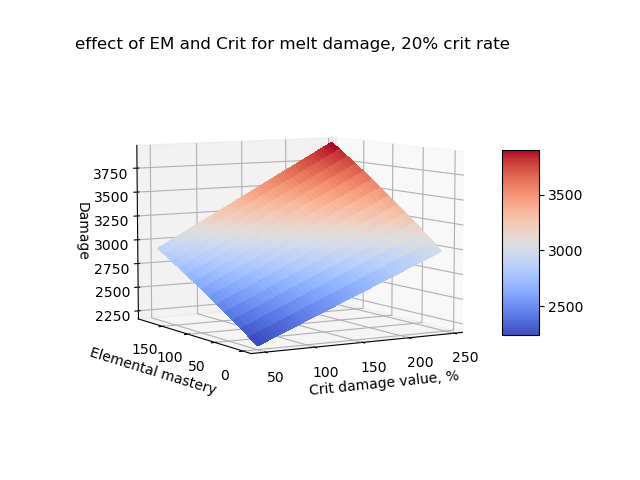
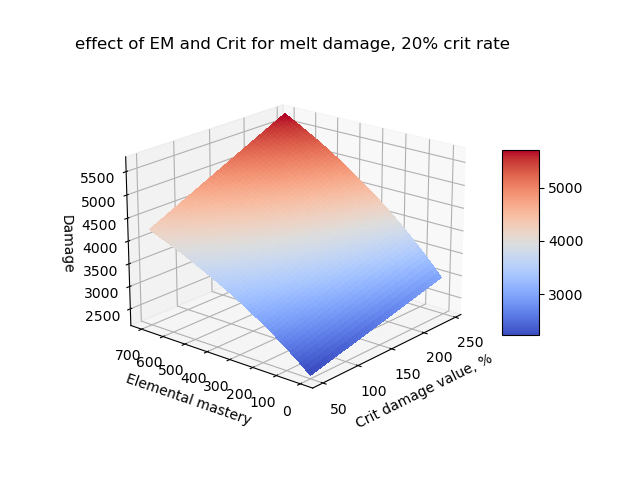
fix scaling update plots

diff --git a/melt-elemental-mastery-vs-crit-damage/index.py b/melt-elemental-mastery-vs-crit-damage/index.py
@@ -1,5 +1,5 @@
 from mpl_toolkits.mplot3d import Axes3D
-
+import os
 import numpy as np
 import random
 import matplotlib.pyplot as plt
@@ -7,43 +7,58 @@ from matplotlib import cm
 from matplotlib.ticker import LinearLocator, FormatStrFormatter
 
 BASE_DAMAGE = 1000
-CRIT_RATE = 1.0
 
 # https://genshin-impact.fandom.com/wiki/Elemental_Mastery#:~:text=Elemental%20Mastery%20is%20an%20attribute,Shattered%2C%20Swirl%2C%20and%20Crystallize.
 def get_melt_effect(elemental_mastery):
   return 1 + 2.78 * elemental_mastery / (1400 + elemental_mastery)
 
-def get_damage_value(elemental_mastery, crit_damage):
+def get_damage_value(elemental_mastery, crit_damage, crit_rate):
   return (BASE_DAMAGE * 
   # crit calculation including crit rate
-  (1 + crit_damage) * CRIT_RATE + BASE_DAMAGE * (1 - CRIT_RATE)) * get_melt_effect(elemental_mastery) * 2
+  (1 + crit_damage) * crit_rate + BASE_DAMAGE * (1 - crit_rate)) * get_melt_effect(elemental_mastery) * 2
 
 def crit_damage_to_em_ratio(crit_damage_value):
   return crit_damage_value / 0.07 * 20
-def main():
+
+def generate_plot_for_crit_rate(crit_rate):
   crit_damage_values = np.arange(0.5, 2.5, 0.05)
-  elemental_mastery_values = np.arange(0, 200, crit_damage_to_em_ratio(0.05))
+  elemental_mastery_values = np.arange(0, crit_damage_to_em_ratio(2.5), crit_damage_to_em_ratio(0.05))
   results = np.zeros((np.shape(crit_damage_values)[0], np.shape(elemental_mastery_values)[0]))
   for i in range(crit_damage_values.shape[0]):
     for j in range(elemental_mastery_values.shape[0]): 
-      results[i][j] = get_damage_value(elemental_mastery_values[j], crit_damage_values[i])
+      results[i][j] = get_damage_value(elemental_mastery_values[j], crit_damage_values[i], crit_rate)
   
   X, Y = np.meshgrid(crit_damage_values, elemental_mastery_values, indexing='ij')
-  fig = plt.figure()
+  
+  fig = plt.figure(num=crit_rate)
   ax = fig.gca(projection='3d')
 
-  print(np.shape(X))
-  print(np.shape(Y))
-  print(np.shape(results))
   surf = ax.plot_surface(X * 100, Y, results, cmap=cm.coolwarm,
                        linewidth=0, antialiased=False)
 
-  plt.colorbar(surf, shrink=0.5, aspect=5)
-  plt.title('effect of EM and Crit for melt damage, {crit:d}% crit rate'.format(crit=int(CRIT_RATE * 100)))
+  fig.colorbar(surf, shrink=0.5, aspect=5)
+  # fig.title('effect of EM and Crit for melt damage, {crit:d}% crit rate'.format(crit=int(CRIT_RATE * 100)))
+  ax.set_title('effect of EM and Crit for melt damage, {crit:d}% crit rate'.format(crit=int(crit_rate * 100)))
   ax.set_xlabel('Crit damage value, %')
   ax.set_ylabel('Elemental mastery')
   ax.set_zlabel('Damage')
-  plt.show()
+  return ax,fig
+
+def main():
+  for crit_rate in [0.2, 0.4, 0.6, 0.8, 1.0]:
+    ax, fig = generate_plot_for_crit_rate(crit_rate)
+    ax.view_init(20, -140)
+    fig.savefig('{path}/plot_{crit:d}%.png'.format(
+      path=os.path.dirname(os.path.realpath(__file__)), 
+      crit=int(crit_rate * 100)
+      ))
+    plt.close(fig)
+
+  # to display with fixed crit rate  
+  # crit_rate = 0.4
+  # ax, fig = generate_plot_for_crit_rate(crit_rate)
+  # ax.view_init(20, -140)
+  # plt.show()
 
 
 if __name__ == "__main__":

diff --git a/melt-elemental-mastery-vs-crit-damage/README.md b/melt-elemental-mastery-vs-crit-damage/README.md
@@ -12,7 +12,7 @@ All calculations are done for **Cryo** -> **Fire** reaction, for Fire -> Cryo EM
 
 # TLDR
 For Fire:
-Crit Damage > Eelemental mastery with at least 20% Crit rate
+Crit Damage > Eelemental mastery with at least 60% Crit rate
 
 # Plots
 Base damage is 1000 
